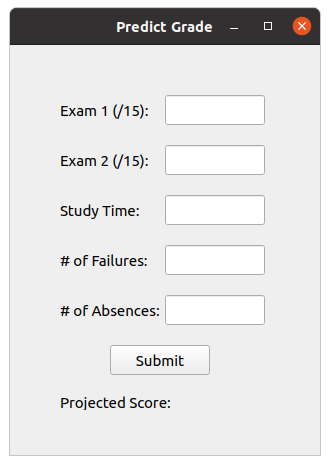
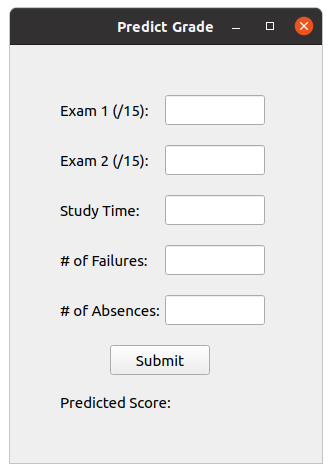
Modified images

diff --git a/main.py b/main.py
@@ -22,7 +22,7 @@ class my_window(QMainWindow):
 
         self.score_label = QtWidgets.QLabel(self)
         self.score_label.resize(150, 15)
-        self.score_label.setText('Projected Score: ')
+        self.score_label.setText('Predicted Score: ')
         self.score_label.move(50, 350)
 
         self.score_int = QtWidgets.QLabel(self)
